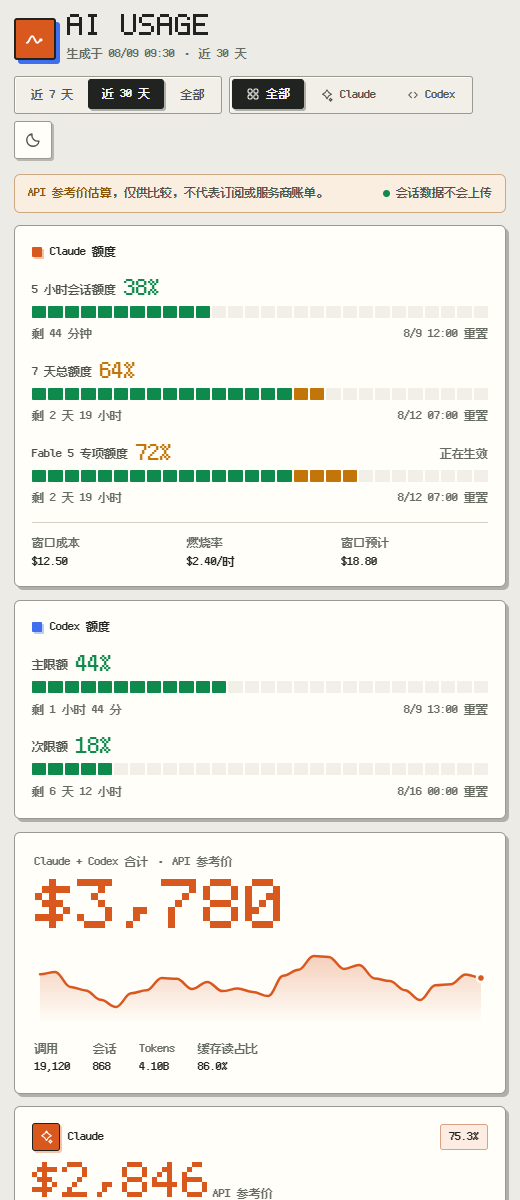
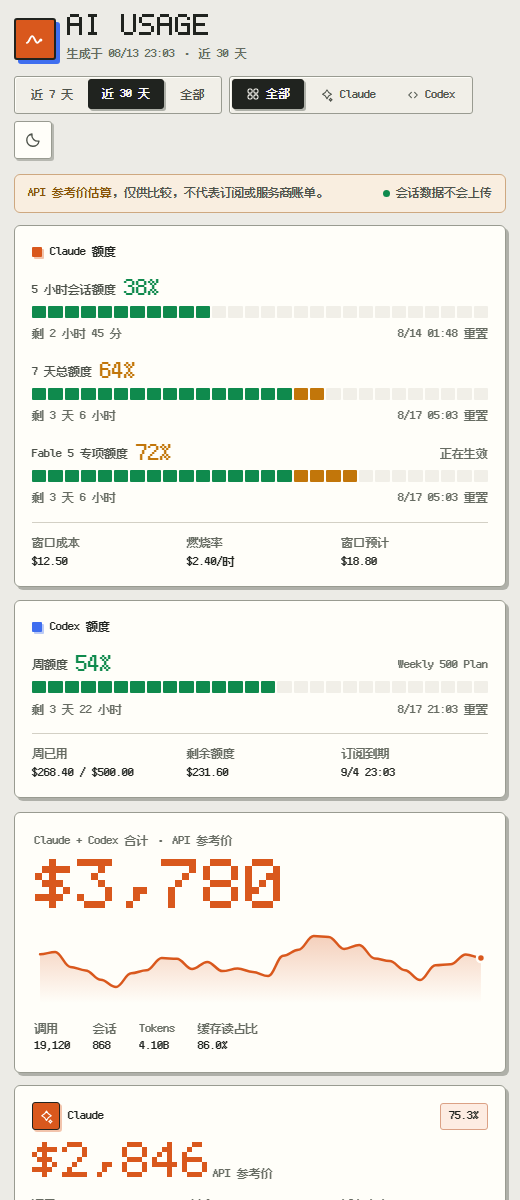
fix: make the legacy shortcut cleanup match, and re-render the docs screenshots
The installer and uninstaller both tried to remove the oldest desktop shortcut by
its Chinese name, written as a raw literal in a BOM-less .ps1. Windows PowerShell
reads such a file in the system ANSI code page, so on a gb2312 host the literal
arrived as 9422 3129 567A 6D60 E047 3003 9429 003F - it even lost the dot before
the extension - and Test-Path was unconditionally false. Anyone upgrading from
that version kept a stale shortcut next to the new one. Building the name from its
code points survives the ANSI reading intact; measured against a real file on disk
under 5.1, the old form matches nothing and the new form matches and removes it.

Static.Tests.ps1 now holds install.ps1 and uninstall.ps1 to ASCII as well, and
pins the code points, because a regression here strands a file on the desktop
where no other test would notice.

The screenshots still showed the pre-relay Codex card. Re-rendering them turned up
two more traps worth recording:

- The demo pinned its quota resets to fixed 2026-08-09 timestamps, so every meter
  rendered as "about to reset" and the countdowns - the whole point of those
  meters - showed nothing. Everything time-shaped now anchors to generation time,
  with -AsOf to pin a run.
- Chromium's --screenshot with --virtual-time-budget does not advance CSS
  animation time, so the sparkline stayed at stroke-dashoffset: 1 and the chart
  published with no line at all. Captured through CDP with real time instead.

diff --git a/CLAUDE.md b/CLAUDE.md
@@ -26,9 +26,11 @@ This personal Windows utility creates a local, disposable Claude Code and OpenAI
 
 - `CLAUDE.md` is the only project rule source. Do not add `AGENTS.md` or duplicate rule files.
 - Treat Claude and Codex session stores, and the CC Switch database, as read-only inputs.
-- Keep runtime and test PowerShell files pure ASCII. Windows PowerShell reads a BOM-less
-  script in the system ANSI code page, so a non-ASCII literal reaches the snapshot as
-  mojibake. All visible copy belongs in `template.html`, which is served as UTF-8.
+- Keep every PowerShell file pure ASCII. Windows PowerShell reads a BOM-less script in the
+  system ANSI code page, so a non-ASCII literal is mojibake before it can reach a snapshot
+  or match a file on disk. All visible copy belongs in `template.html`, which is served as
+  UTF-8; a value that must stay non-ASCII, such as the legacy Chinese shortcut name, is
+  built from its code points.
 - Never display or commit prompt text, tool arguments, API keys, provider URLs, or authorization headers.
 - Label all cost as an API reference-price estimate, not actual subscription or provider billing.
 - Keep canonical runtime files in `src/`; root-level copies are an ignored installed mirror.
@@ -88,5 +90,13 @@ This personal Windows utility creates a local, disposable Claude Code and OpenAI
 
 - Screenshots in `docs/` must be rendered from synthetic demo data, never from a real
   session store. Use `tests/New-DemoSnapshot.ps1`; real project paths and account quota
-  state are personal data.
+  state are personal data. Keep `dashboard.png` at 1280x1000 and `mobile.png` at 520x1200,
+  and re-render both whenever a card visible in them changes.
+- The demo anchors every timestamp to generation time, so quota meters always show a live
+  countdown; pass `-AsOf` to pin a run. Fixed past dates render every window as "about to
+  reset" and the meters stop showing anything.
+- Capture screenshots through the DevTools Protocol with real time elapsing. Chromium's
+  `--screenshot` with `--virtual-time-budget` does not advance CSS animation time, which
+  leaves the sparkline stroke stuck at `stroke-dashoffset: 1` and silently publishes a
+  chart with no line.
 - Keep `README.md` (English) and `README.zh-CN.md` (Chinese) in sync when behaviour changes.
